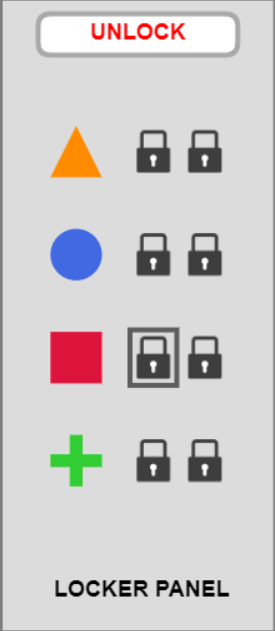
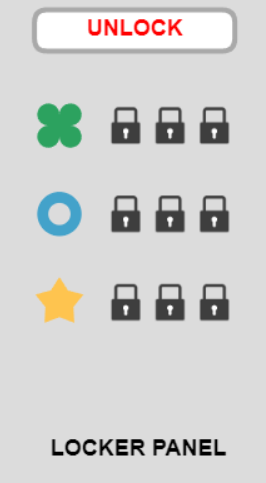
update levantia

diff --git a/app/tutorial5.html b/app/tutorial5.html
@@ -18,21 +18,23 @@
 2) <b>EXPERT</b> mode by clicking on only 1 target, but only after <b>unlocking</b> the corresponding lockers.
 </pre>
         <div class="infoDivButton">
-            <button class="infoButton" onclick="location.href='tutorial4.html'+window.location.search" >Back</button>
-            <button class="infoButton" onclick="nextPage()">Continue</button>
+            <button class="infoButton" onclick="location.href='tutorial4.html'+window.location.search" style="padding: 10px">Back</button>
+            <button class="infoButton" onclick="nextPage()" style="padding: 10px">Continue</button>
         </div>
     </div>
 
     <div id="Step2" style="display: none">
         <div class="infoTitle"><b>TIPS</b></div>
-        <pre><b>Should I unlock the EXPERT mode for some targets?</b>
+        <pre><b>Should I unlock the EXPERT mode for some targets ?</b>
+
 Not necessarily! You have to choose which strategy <b>NOVICE mode</b> or <b>unlock the EXPERT mode</b> allows you to save time.
-To help you, the timeline on top of your screen shows the number of occurrences for each target symbol. Some targets can be more numerous than others.</pre>
+
+To help you, the timeline on top of your screen shows the number of occurrences for each target symbol. Some targets can be more frequent than others.</pre>
         <div style="text-align: center;margin-top: 10px;"><img src="rsc/img/tuto4_part2.png" width="260" alt=""/></div>
 
         <div class="infoDivButton">
-            <button class="infoButton" onclick="backTo1()" >Back</button>
-            <button class="infoButton" onclick="nextPage2()">Continue</button>
+            <button class="infoButton" onclick="backTo1()" style="padding: 10px">Back</button>
+            <button class="infoButton" onclick="nextPage2()" style="padding: 10px">Continue</button>
         </div>
     </div>
 
@@ -48,9 +50,9 @@ The 3 fastest participants of this game will receive bonus payment!
 3rd PRIZE: X $</pre>
         <div>
             <pre>Did not understand ? You can retry the tutorial !</pre>
-            <button onclick="window.location = 'tutorial1.html'+window.location.search"> Retry the tutorials</button>
-            <button class="infoButton" onclick="backTo2()" >Back</button>
-            <button onclick="window.location = 'index.html'+window.location.search"> Start the Experiment</button>
+            <button onclick="window.location = 'tutorial1.html'+window.location.search" style="padding: 10px"> Retry the tutorials</button>
+            <button class="infoButton" onclick="backTo2()" style="padding: 10px">Back</button>
+            <button onclick="window.location = 'index.html'+window.location.search" style="padding: 10px"> Start the Experiment</button>
         </div>
     </div>
 </div>

diff --git a/app/rsc/assets/js/gameLog.js b/app/rsc/assets/js/gameLog.js
@@ -40,10 +40,10 @@ class GameLog {
             this.weights["Square"] = weights[2]
             this.weights["Cross"] = weights[3]
 
-            this.seenShape["Triangle"] = -1
-            this.seenShape["Circle"] = -1
-            this.seenShape["Square"] = -1
-            this.seenShape["Cross"] = -1
+            this.seenShape["Triangle"] = 0
+            this.seenShape["Circle"] = 0
+            this.seenShape["Square"] = 0
+            this.seenShape["Cross"] = 0
 
             this.firstUnlockOcc["Triangle"] = -1
             this.firstUnlockOcc["Circle"] = -1
@@ -57,37 +57,37 @@ class GameLog {
         }
         if(w > 5){
             this.weights["Diamond"] = weights[4]
-            this.seenShape["Diamond"] = -1
+            this.seenShape["Diamond"] = 0
             this.firstUnlockOcc["Diamond"] = -1
             this.firstUnlockTrialId["Diamond"] = -1
         }
         if(w > 6){
             this.weights["X"] = weights[5]
-            this.seenShape["X"] = -1
+            this.seenShape["X"] = 0
             this.firstUnlockOcc["X"] = -1
             this.firstUnlockTrialId["X"] = -1
         }
         if(w > 7){
             this.weights["Hexagon"] = weights[6]
-            this.seenShape["Hexagon"] = -1
+            this.seenShape["Hexagon"] = 0
             this.firstUnlockOcc["Hexagon"] = -1
             this.firstUnlockTrialId["Hexagon"] = -1
         }
         if(w > 8){
             this.weights["Star"] = weights[7]
-            this.seenShape["Star"] = -1
+            this.seenShape["Star"] = 0
             this.firstUnlockOcc["Star"] = -1
             this.firstUnlockTrialId["Star"] = -1
         }
         if(w > 9){
             this.weights["Ring"] = weights[8]
-            this.seenShape["Ring"] = -1
+            this.seenShape["Ring"] = 0
             this.firstUnlockOcc["Ring"] = -1
             this.firstUnlockTrialId["Ring"] = -1
         }
         if(w > 10){
             this.weights["Quatrefoil"] = weights[9]
-            this.seenShape["Quatrefoil"] = -1
+            this.seenShape["Quatrefoil"] = 0
             this.firstUnlockOcc["Quatrefoil"] = -1
             this.firstUnlockTrialId["Quatrefoil"] = -1
         }

diff --git a/app/tuto0_2.html b/app/tuto0_2.html
@@ -15,18 +15,20 @@
     <div >
       <div class="infoTitle">TASK</div>
       <pre>
-Now you will go through the tutorial, which is constituted of <b>4 steps</b> where you will learn about the mechanics of the game.
-Please read carefully, and if necessary you can go back anytime if you did not comprehend.
-
 In this game you need to click on target symbols as fast as possible.
 For example, your target below is an orange triangle.
 So you will have to click on all three orange triangles on the grid.
-Click on the button “Next” to practice.
-    <img src="rsc/img/tuto0.png" width="520" alt="Task example"/>
-                    </pre>
+
+<img src="rsc/img/tuto0.png" width="520" alt="Task example"/>
+
+To understand how to play the game, you will go through a 4-step tutorial.
+Please read the instructions carefully.  You can use the button "Back" if something is unclear.
+
+Click on the button “Next” to start the tutorial.
+</pre>
 
       <div class="infoDivButton">
-        <button class="infoButton" onclick="window.location = 'tutorial1.html'+window.location.search;">Next</button>
+        <button class="infoButton" onclick="window.location = 'tutorial1.html'+window.location.search;" style="padding: 10px">Next</button>
       </div>
     </div>
   </div>

diff --git a/app/rsc/assets/js/tdGame.js b/app/rsc/assets/js/tdGame.js
@@ -443,7 +443,7 @@ class TDGame {
         return this.settings.maxTimer
     }
 
-    unlockAnimation(xStart,yStart,xStop,yStop,sizeStart = 80,sizeStop = 20,frame = 30,time = 1000){
+    unlockAnimation(xStart,yStart,xStop,yStop,sizeStart = 20,sizeStop = 20,frame = 30,time = 1000){
         var animationCanvas = document.getElementById("animation");
         if (!animationCanvas){
             animationCanvas = document.createElement("canvas");
@@ -494,10 +494,10 @@ class TDGame {
     }
 
     animate(){
-        let first = this.targetCanvas.targetShapeDisplay
+        let first = this.timeline.shapeTimeline[this.currStep]
         let last = this.timeline.shapeTimeline[this.timeline.shapeTimeline.length -1]
-        this.unlockAnimation(this.targetCanvas.left + first.x,this.targetCanvas.top + first.y,
-            20 + last.x, last.y)
+        this.unlockAnimation( 10+first.x,first.y-10,
+            10 + last.x, last.y-10)
     }
 
     addLearningStep(shape){

diff --git a/app/tuto2_1.html b/app/tuto2_1.html
@@ -19,11 +19,11 @@ Click on “Next” to practice the <b>locker panel</b> mode.
     </pre>
     <img id="imga" src="rsc/img/lockerPanel.png" width="150" alt="">
     <div id="buttonToTuto3" class="infoDivButton" >
-        <button class="infoButton" onclick="location.href='tutorial3.html'+window.location.search">Next</button>
+        <button class="infoButton" onclick="location.href='tutorial3.html'+window.location.search" style="padding: 10px">Next</button>
     </div>
 
     <div id="backButton" class="infoDivButton" style="margin-top: 10px;">
-        <button class="infoButton" onclick="location.href='tuto1_2.html'+window.location.search" style="padding: 10px">Back to previous tutorial</button>
+        <button class="infoButton" onclick="location.href='tuto1_2.html'+window.location.search" style="padding: 10px">Back</button>
     </div>
 
 </div>

diff --git a/app/tutorial4.html b/app/tutorial4.html
@@ -24,10 +24,10 @@
         </div>
     </div>
     <div class="infoDivButton">
-        <button id="nextPagebutton" class="infoButton">Next</button>
+        <button id="nextPagebutton" class="infoButton" style="padding: 10px">Next</button>
     </div>
     <div style="text-align: right;margin-top: 10px">
-        <button class="infoButton" onclick="location.href='tuto2_1.html'+window.location.search" style="padding: 10px">Back to previous tutorial</button>
+        <button class="infoButton" id="info_but" onclick="location.href='tuto2_1.html'+window.location.search" style="padding: 10px">Back</button>
     </div>
 
 </div>

diff --git a/app/tuto1_2.html b/app/tuto1_2.html
@@ -24,7 +24,7 @@ Click on the button “Next” to practice the EXPERT mode.
         <button class="infoButton" onclick="location.href='tutorial2.html'+window.location.search" style="padding: 10px">Next</button>
     </div>
     <div id="backButton" class="infoDivButton" style="margin-top: 10px;">
-        <button class="infoButton" onclick="location.href='tuto0_2.html'+window.location.search" style="padding: 10px">Back to previous tutorial</button>
+        <button class="infoButton" onclick="location.href='tuto0_2.html'+window.location.search" style="padding: 10px">Back</button>
     </div>
 </div>
 <script>

diff --git a/app/rsc/assets/js/shapes/triangle.js b/app/rsc/assets/js/shapes/triangle.js
@@ -9,9 +9,9 @@ class Triangle extends Shape {
         this.top = y - this.height / 2;
         this.right = x + this.height / 2;
         this.left = x - this.height / 2;
-        this.colorUnlit = "#FF8C00";
+        this.colorUnlit = "#feb24c";
         this.colorLit = "#ffcc66";
-        this.colorGrey = "#FF8C0080"
+        this.colorGrey = "#feb24c80"
         // Top corner
         this.t1 = { x: this.x - this.height / 2, y: this.y + this.height / 2 };
         // Left corner

diff --git a/app/rsc/assets/js/shapes/quatrefoil.js b/app/rsc/assets/js/shapes/quatrefoil.js
@@ -8,9 +8,9 @@ class Quatrefoil extends Shape {
         this.top = y - size/2;
         this.right = x + size/2;
         this.left = x - size/2;
-        this.colorUnlit = "#2ed22a" //TODO
-        this.colorLit = "#6bbe6a"
-        this.colorGrey = "#2ed22a80" // TODO
+        this.colorUnlit = "#2ca25f" //TODO
+        this.colorLit = "#99d8c9"
+        this.colorGrey = "#2ca25f80" // TODO
         this.marginFactor = minSize / 16 *1.5
     }
 

diff --git a/app/rsc/assets/js/shapes/hexagon.js b/app/rsc/assets/js/shapes/hexagon.js
@@ -8,9 +8,9 @@ class Hexagon extends Shape {
         this.top = y - size/2;
         this.right = x + size/2;
         this.left = x - size/2;
-        this.colorUnlit = "#854405" //TODO
-        this.colorLit = "#8c5c2f"
-        this.colorGrey = "#85440580" // TODO
+        this.colorUnlit = "#e34a33" //TODO
+        this.colorLit = "#fdbb84"
+        this.colorGrey = "#e34a3380" // TODO
         this.marginFactor = minSize / 16 *1.5
     }
 

diff --git a/app/rsc/assets/js/shapes/ring.js b/app/rsc/assets/js/shapes/ring.js
@@ -9,9 +9,9 @@ class Ring extends Shape {
         this.top = y - size/2;
         this.right = x + size/2;
         this.left = x - size/2;
-        this.colorUnlit = "#169de1" //TODO
-        this.colorLit = "#4eafd9"
-        this.colorGrey = "#169de180" // TODO
+        this.colorUnlit = "#43a2ca" //TODO
+        this.colorLit = "#a8ddb5"
+        this.colorGrey = "#43a2ca80" // TODO
         this.marginFactor = minSize / 16 *1.5
     }
 

diff --git a/app/rsc/assets/js/shapes/star.js b/app/rsc/assets/js/shapes/star.js
@@ -8,9 +8,9 @@ class Star extends Shape {
         this.top = y - size/2;
         this.right = x + size/2;
         this.left = x - size/2;
-        this.colorUnlit = "#eaea11" //TODO
-        this.colorLit = "#ffffb3"
-        this.colorGrey = "#eaea1180" // TODO
+        this.colorUnlit = "#fec44f" //TODO
+        this.colorLit = "#fff7bc"
+        this.colorGrey = "#fec44f80" // TODO
         this.marginFactor = minSize / 16 *1.5
     }
 
